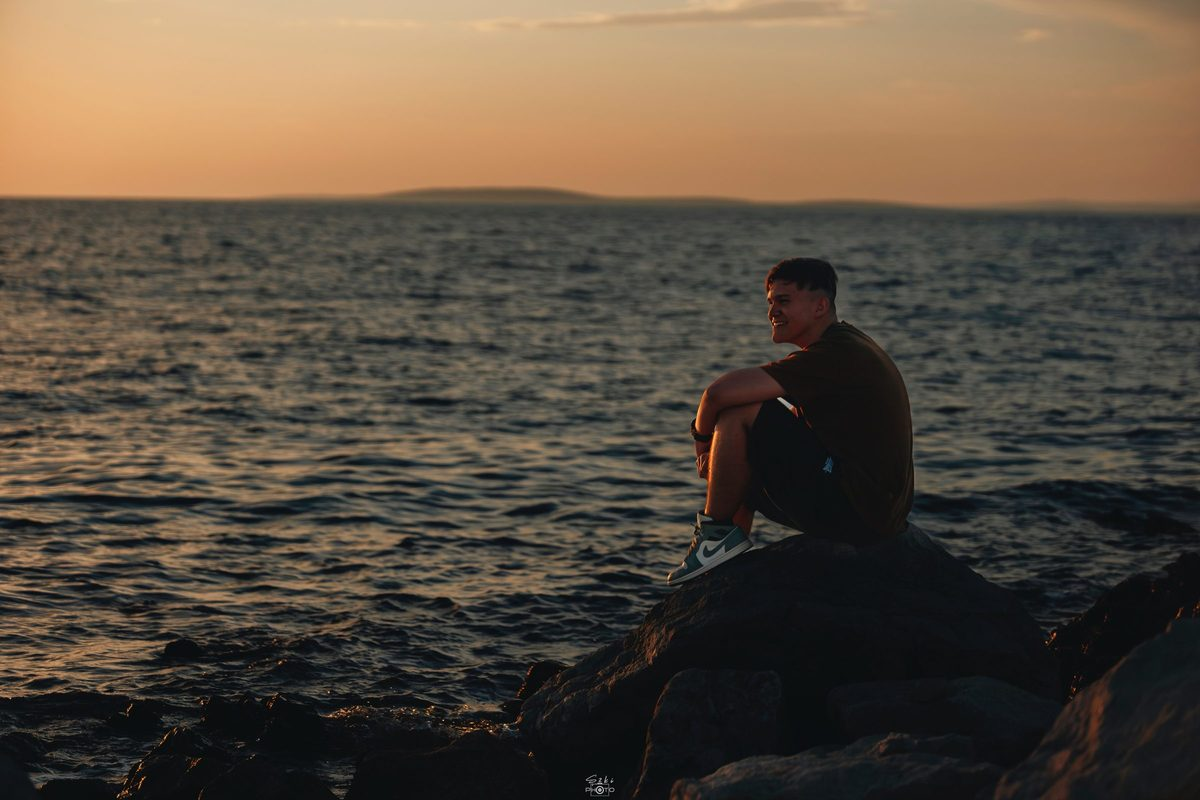
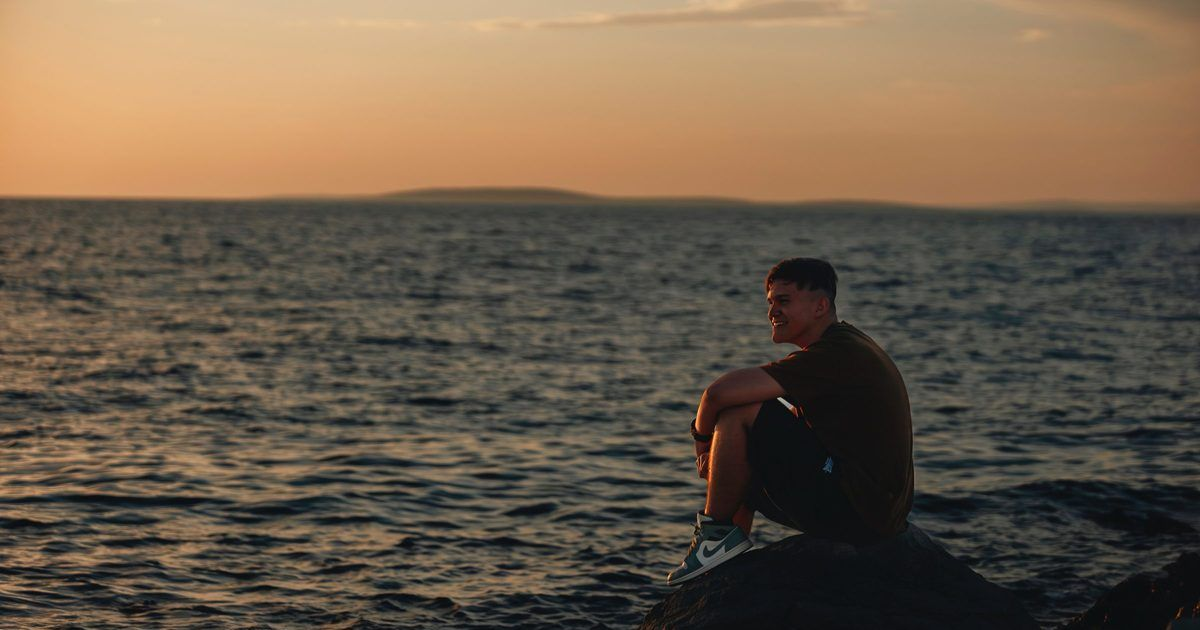
fix: crop the OG image to 1200x630 so link previews drop the watermark
The source portrait carries a "SAKI PHOTO" watermark along its bottom
edge. In the hero and footer it sits under the scrim and never shows,
but public/og-image.jpg was the raw file, so every Facebook, LinkedIn,
X and Slack preview of this site would have carried another studio's
mark.

The numbers line up: the source is 1200x800 and the watermark occupies
the bottom band, so a top-anchored 1200x630 crop discards it and lands
exactly on the canonical 1.91:1 OG ratio in the same move. That also
settles the aspect mismatch left by the previous commit — platforms no
longer letterbox or re-crop, which is what would have pulled the
watermark band back into view.

Cropped with a one-shot `npx --yes sharp-cli extract 0 0 1200 630`; no
dependency was added to package.json. src/assets/portrait-sunset.jpg is
untouched and the hero still renders the full uncropped image.

og:image:height is set from the re-measured file, not the intended
value: 1200x630 confirmed by the same JPEG SOF reader used before.

diff --git a/index.html b/index.html
@@ -16,7 +16,7 @@
     <meta property="og:description" content="React, Node.js és modern web-technológiák — ötlettől a működő termékig. Full-stack fejlesztő Magyarországról." />
     <meta property="og:image" content="https://rizmajer-mate-portfolio.vercel.app/og-image.jpg" />
     <meta property="og:image:width" content="1200" />
-    <meta property="og:image:height" content="800" />
+    <meta property="og:image:height" content="630" />
     <meta property="og:image:alt" content="Rizmajer Máté — full-stack fejlesztő portfólió" />
 
     <meta name="twitter:card" content="summary_large_image" />
